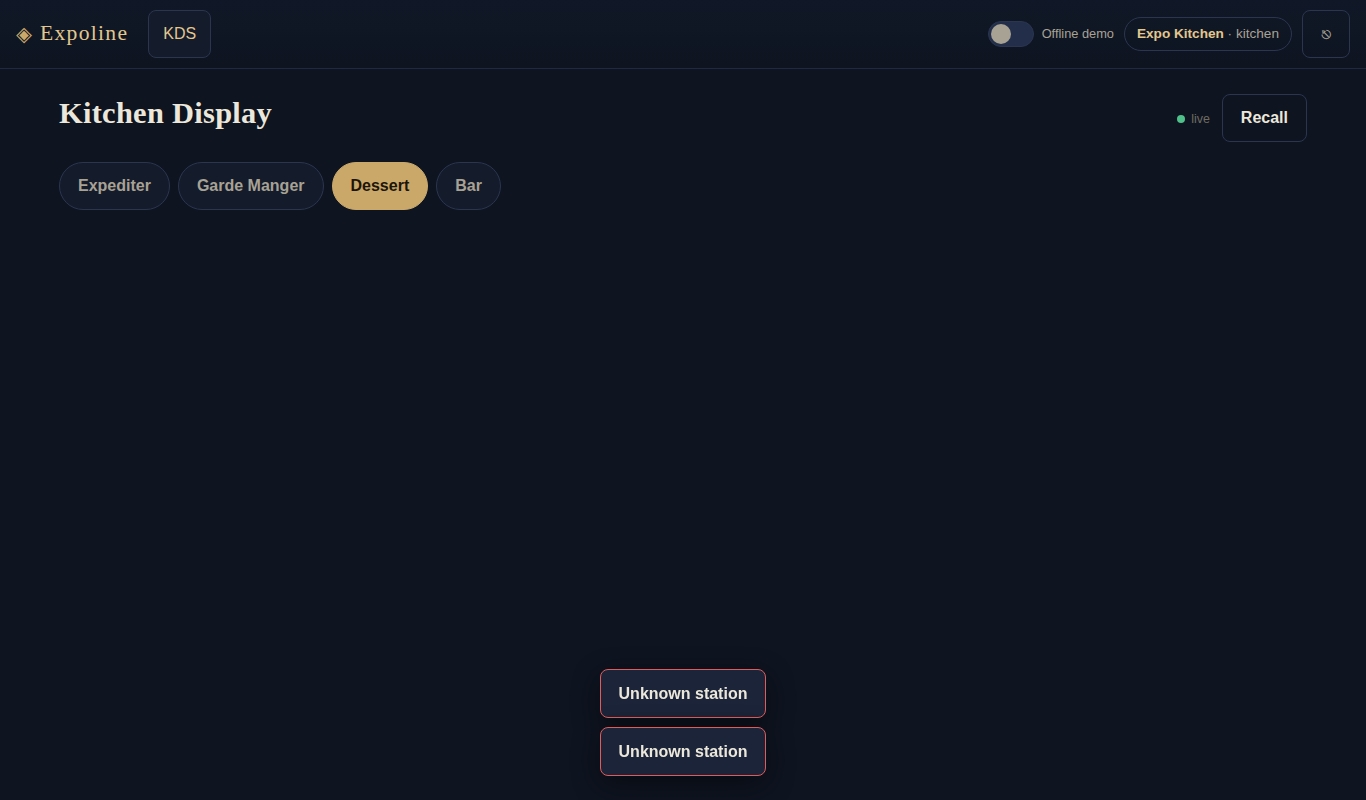
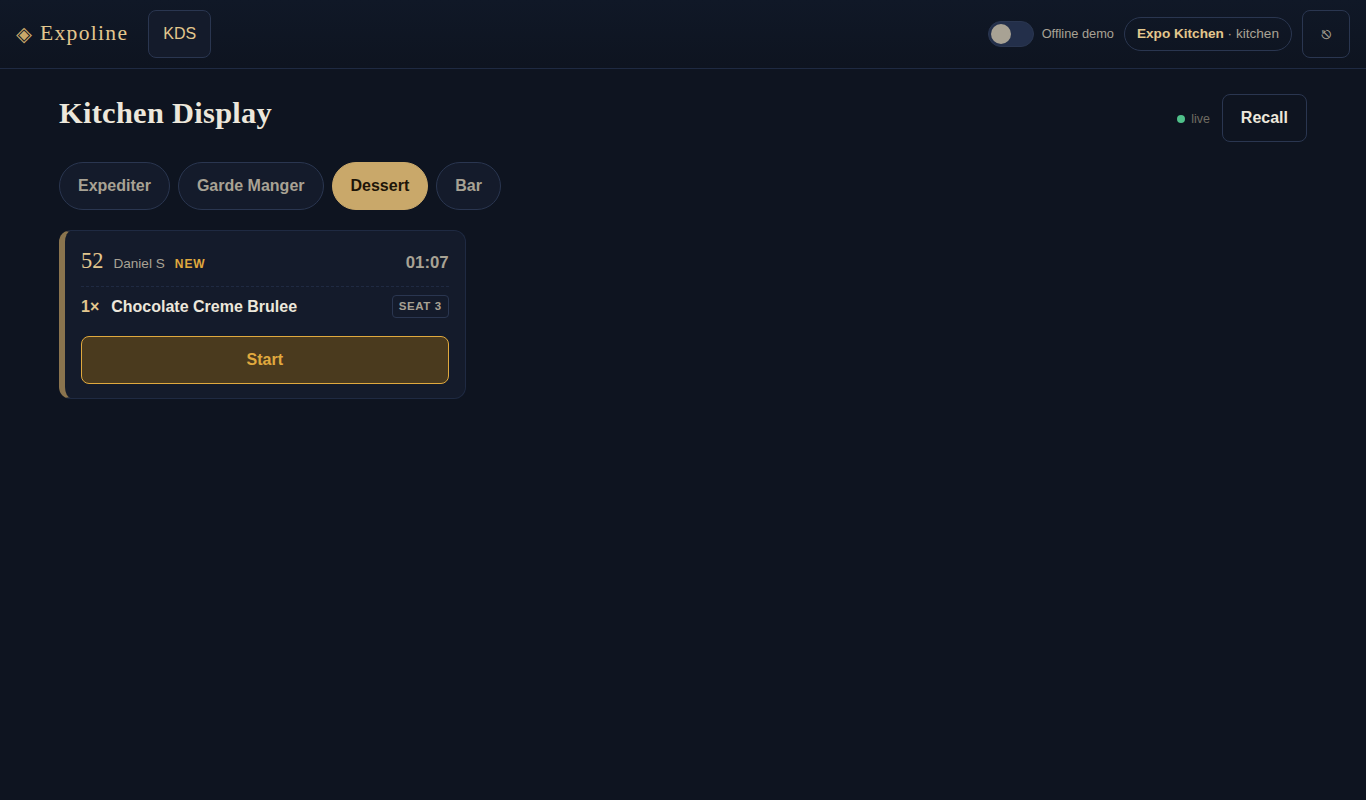
qa: round 2 GREEN — re-verified screenshots + test scripts

diff --git a/qa/test6b_shots.py b/qa/test6b_shots.py
@@ -1,0 +1,97 @@
+#!/usr/bin/env python3
+"""Expoline QA round-2: KDS tabs (slug data-st), manager views incl. seeded-date variants."""
+import json, urllib.request
+from playwright.sync_api import sync_playwright
+
+BASE = "http://localhost:4317"
+OUT = "qa/screenshots"
+
+def api(method, path, token=None, body=None):
+    req = urllib.request.Request(BASE+path, method=method,
+        data=json.dumps(body).encode() if body is not None else None,
+        headers={"Content-Type":"application/json"})
+    if token: req.add_header("Authorization", "Bearer "+token)
+    with urllib.request.urlopen(req) as r:
+        return json.loads(r.read().decode() or "{}")
+
+def login(pin): return api("POST","/api/auth/login",None,{"pin":pin})
+KT = login("2222"); MT = login("2580")
+
+def goto(page, frag):
+    page.evaluate("f=>{location.hash=f}", frag)
+    page.wait_for_timeout(1400)
+
+def session_inject(page, sess):
+    page.goto(BASE + "/#/login", wait_until="networkidle")
+    page.evaluate("s=>{sessionStorage.setItem('expoline.token',s.token);sessionStorage.setItem('expoline.user',JSON.stringify(s.user))}", sess)
+    page.reload(wait_until="networkidle")
+    page.wait_for_timeout(800)
+
+def toast_check(page, where):
+    t = page.evaluate("()=>{const els=[...document.querySelectorAll('.toast,.toast-error,.alert')];return els.map(e=>e.textContent.trim());}")
+    bad = [x for x in t if 'Unknown' in x]
+    print(f"  [{where}] toasts={t} {'!! UNKNOWN-STATION TOAST' if bad else 'ok'}")
+    return not bad
+
+with sync_playwright() as pw:
+    b = pw.chromium.launch(executable_path="/home/hatch/.cache/ms-playwright/chromium-1243/chrome-linux/chrome",
+                           args=["--no-sandbox"])
+    ok = True
+
+    # --- KDS as kitchen: click each station tab (slugs) ---
+    ctx = b.new_context(viewport={"width":1366,"height":800})
+    kp = ctx.new_page()
+    session_inject(kp, KT)
+    goto(kp, "#/kds")
+    kp.wait_for_selector("#kds-tabs .tab")
+    ws = kp.evaluate("()=>document.querySelector('#kds-ws').textContent.trim()")
+    print("kds ws badge:", ws)
+    for slug in ["expediter","garde_manger","dessert","bar"]:
+        kp.click(f'#kds-tabs .tab[data-st="{slug}"]')
+        kp.wait_for_timeout(1200)
+        cards = kp.evaluate("()=>document.querySelectorAll('.ticket-card,.kds-card,.ticket').length")
+        print(f"tab {slug}: ticket cards in DOM = {cards}")
+        ok = toast_check(kp, f"kds/{slug}") and ok
+        kp.screenshot(path=f"{OUT}/05-kds-{slug}.png")
+        print("saved", f"{OUT}/05-kds-{slug}.png")
+    kp.close(); ctx.close()
+
+    # --- manager views ---
+    ctx2 = b.new_context(viewport={"width":1366,"height":800})
+    mp = ctx2.new_page()
+    session_inject(mp, MT)
+
+    goto(mp, "#/floor"); mp.wait_for_timeout(800)
+    mp.screenshot(path=f"{OUT}/06-floor-manager.png"); print("saved 06-floor-manager.png")
+
+    goto(mp, "#/manager")
+    ov = mp.evaluate("()=>document.body.innerText.slice(0,600)")
+    print("overview text sample:", ov.replace("\n"," | ")[:300])
+    mp.screenshot(path=f"{OUT}/07-manager-overview.png"); print("saved 07-manager-overview.png")
+
+    # Finance: default site date
+    goto(mp, "#/manager/finance")
+    findate = mp.evaluate("()=>document.querySelector('#fin-date').value")
+    print("fin-date default:", findate, "(expect 2026-09-25)")
+    mp.screenshot(path=f"{OUT}/08-finance-payouts.png"); print("saved 08-finance-payouts.png")
+    # Finance: seeded date
+    mp.evaluate("()=>{const i=document.querySelector('#fin-date');i.value='2026-09-24';i.dispatchEvent(new Event('change',{bubbles:true}));}")
+    mp.wait_for_timeout(1200)
+    fintext = mp.evaluate("()=>document.querySelector('#fin-body').innerText.replace(/\\n+/g,' | ').slice(0,500)")
+    print("fin 2026-09-24 body:", fintext[:400])
+    mp.screenshot(path=f"{OUT}/08b-finance-payouts-2026-09-24.png"); print("saved 08b-finance-payouts-2026-09-24.png")
+
+    # Shift: default site date
+    goto(mp, "#/manager/shift")
+    shdate = mp.evaluate("()=>document.querySelector('#sh-date').value")
+    print("sh-date default:", shdate, "(expect 2026-09-25)")
+    mp.screenshot(path=f"{OUT}/09-shift-report.png"); print("saved 09-shift-report.png")
+    # Shift: seeded date
+    mp.evaluate("()=>{const i=document.querySelector('#sh-date');i.value='2026-09-24';i.dispatchEvent(new Event('change',{bubbles:true}));}")
+    mp.wait_for_timeout(1200)
+    shtext = mp.evaluate("()=>document.querySelector('#sh-body').innerText.replace(/\\n+/g,' | ').slice(0,500)")
+    print("shift 2026-09-24 body:", shtext[:400])
+    mp.screenshot(path=f"{OUT}/09b-shift-report-2026-09-24.png"); print("saved 09b-shift-report-2026-09-24.png")
+
+    mp.close(); ctx2.close(); b.close()
+print("ALL-OK" if ok else "TOAST-ISSUE")
